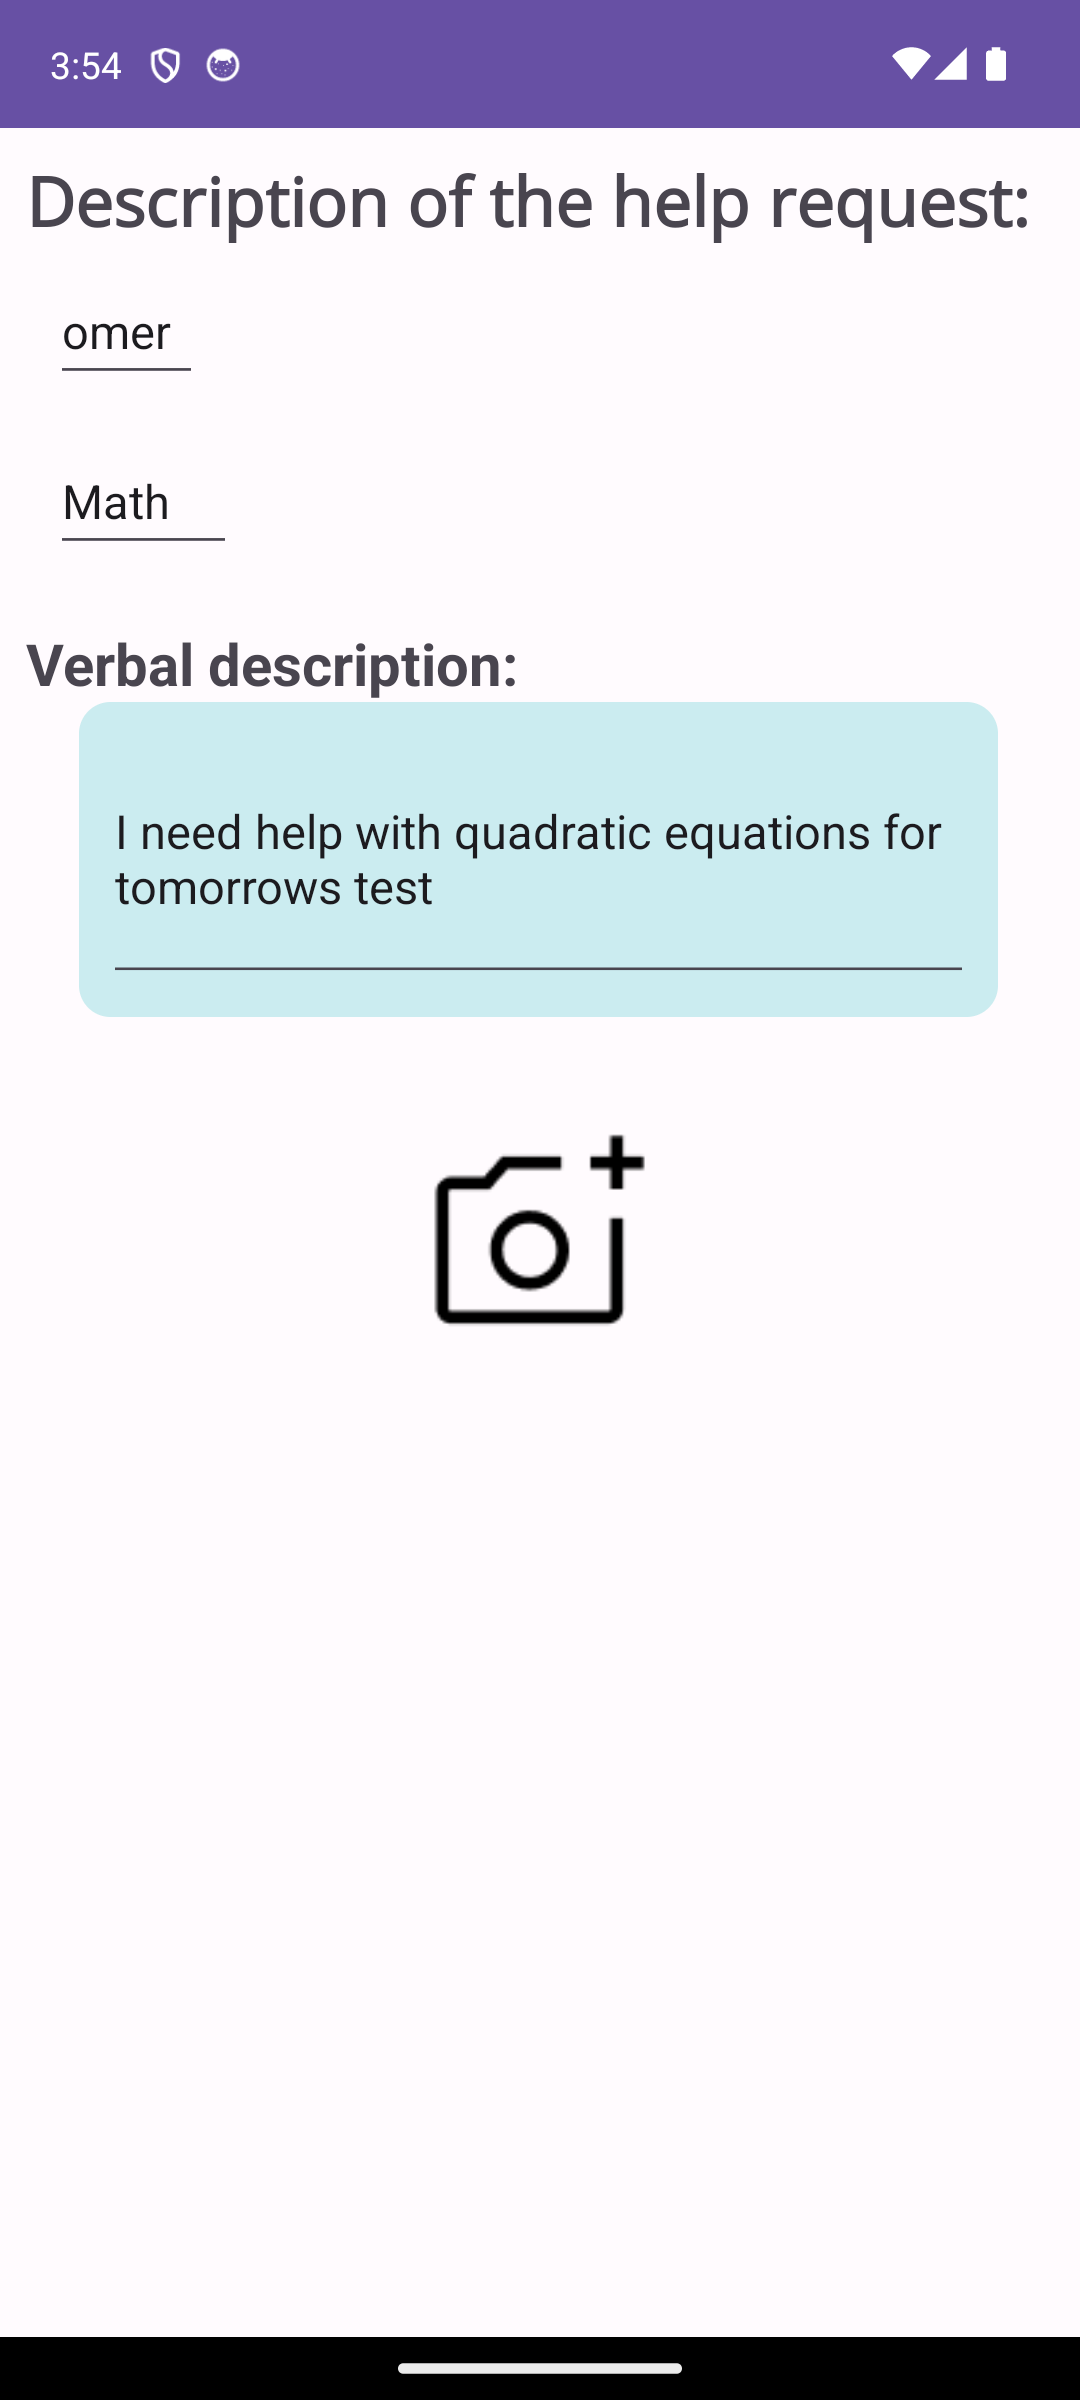
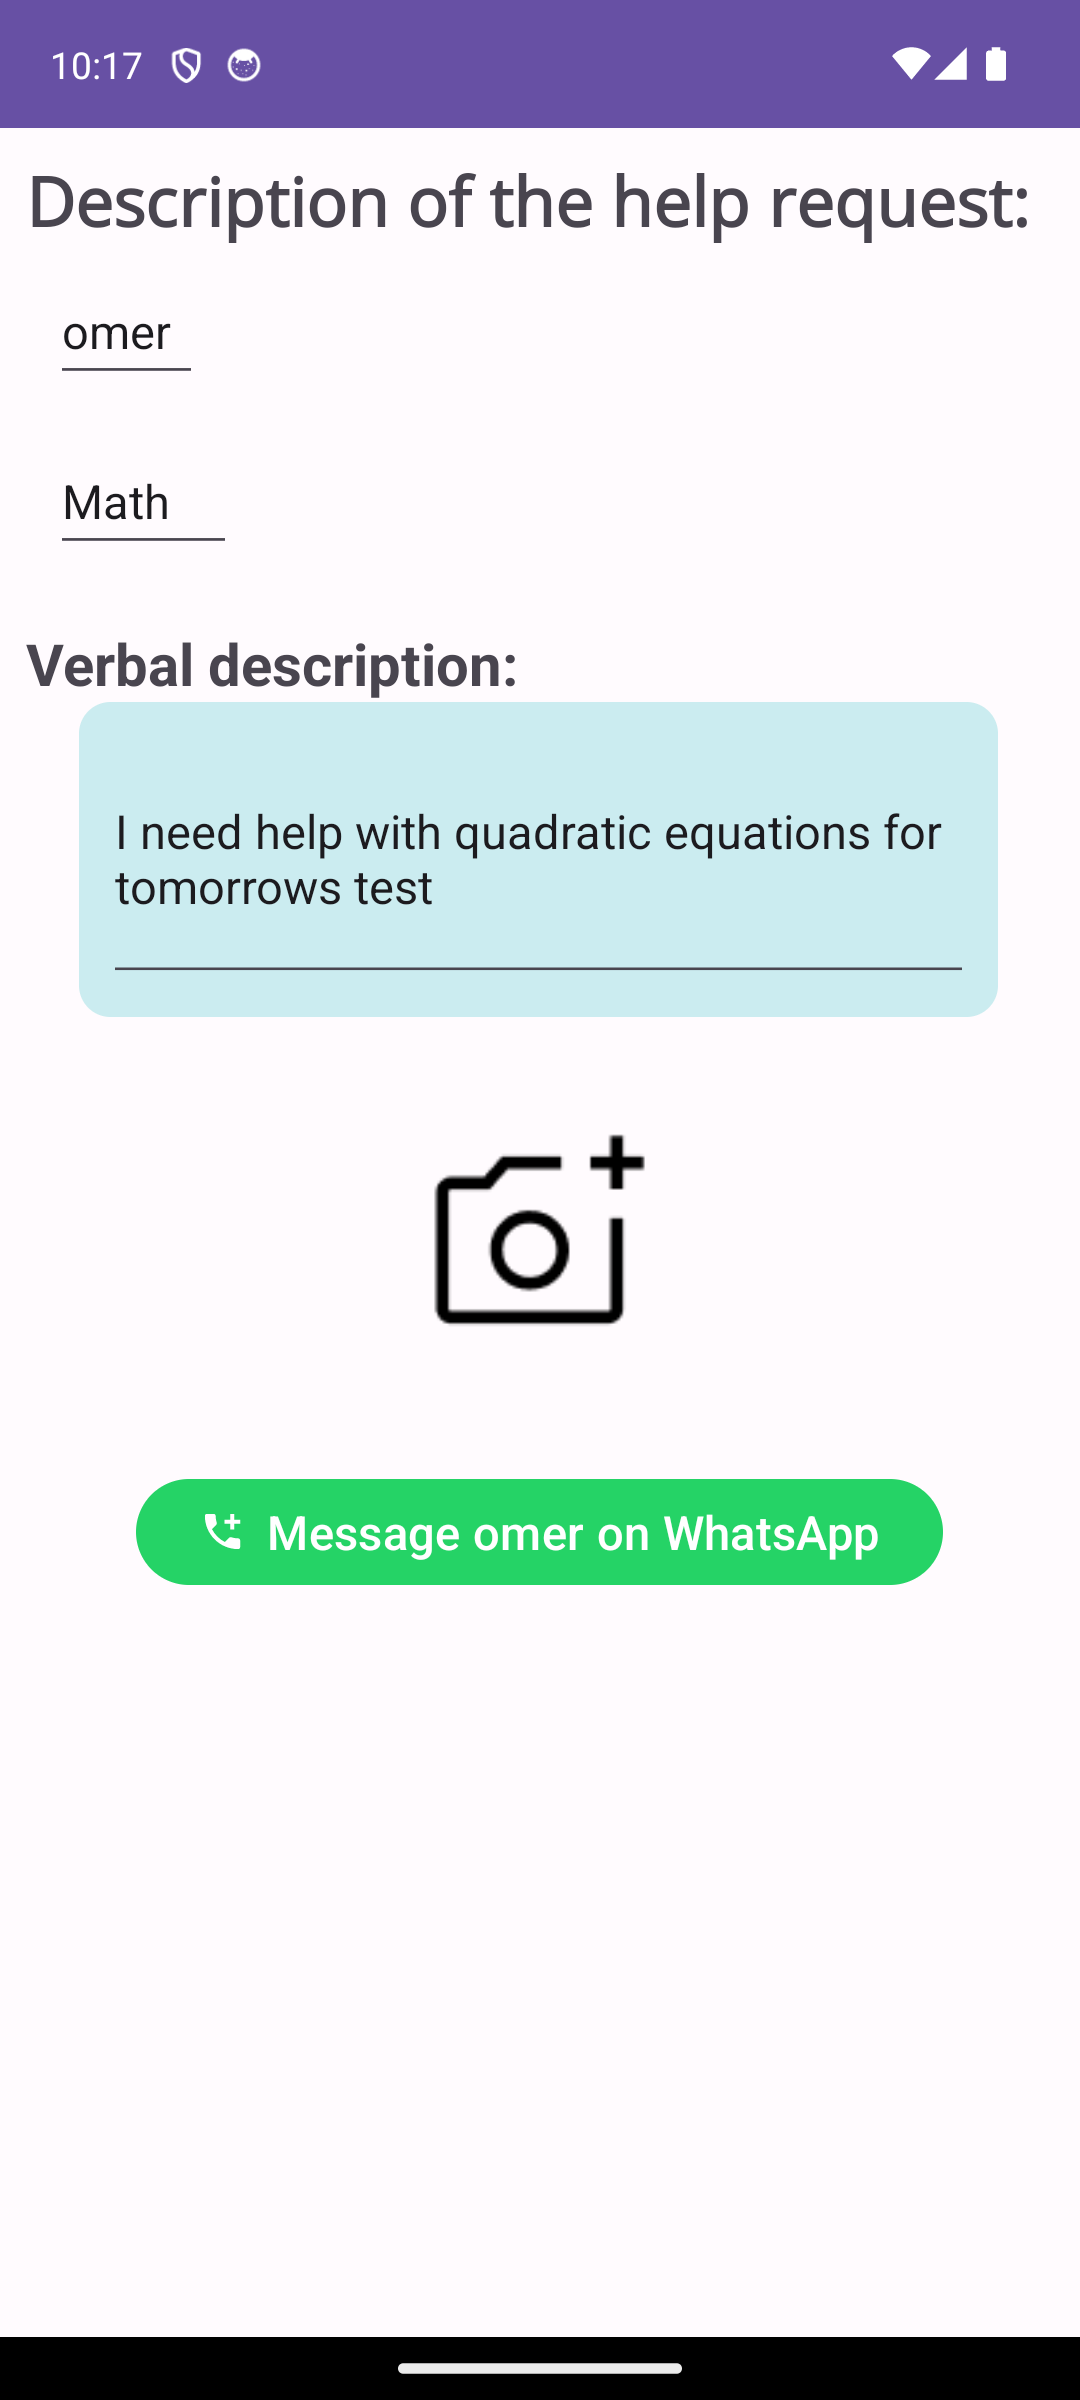
Add a WhatsApp button to the request details screen
The helper can open a WhatsApp chat with the student who asked for help,
using the phone number from their profile and a ready-made first message.

Changed region(s): [[0.1222, 0.5938, 0.8861, 0.6875], [0.0611, 0.0, 0.2444, 0.0312]]

diff --git a/app/src/main/java/com/example/studentsmatch/HelpDescriptionActivity.java b/app/src/main/java/com/example/studentsmatch/HelpDescriptionActivity.java
@@ -4,17 +4,23 @@ import androidx.annotation.NonNull;
 import androidx.appcompat.app.AppCompatActivity;
 import androidx.core.app.ActivityCompat;
 
+import android.content.ActivityNotFoundException;
 import android.content.Context;
 import android.content.Intent;
 import android.database.Cursor;
+import android.database.sqlite.SQLiteDatabase;
 import android.graphics.Bitmap;
 import android.graphics.BitmapFactory;
 import android.net.Uri;
 import android.os.Bundle;
 import android.provider.MediaStore;
 import android.util.Log;
+import android.view.View;
+import android.widget.Button;
 import android.widget.EditText;
 import android.widget.ImageView;
+import android.widget.TextView;
+import android.widget.Toast;
 
 import java.io.FileNotFoundException;
 import java.io.IOException;
@@ -28,12 +34,16 @@ public class HelpDescriptionActivity extends AppCompatActivity {
     public EditText nameEt;
     public EditText subjectEt, getHelpEditText;
     public ImageView getImage1;
+    public Button whatsappBtn;
+    public TextView whatsappNote;
 
     public void init(){
         nameEt=findViewById(R.id.nameEt);
         subjectEt=findViewById(R.id.subjectEt);
         getHelpEditText=findViewById(R.id.getHelpEditText);
         getImage1=findViewById(R.id.getImage1);
+        whatsappBtn=findViewById(R.id.whatsappBtn);
+        whatsappNote=findViewById(R.id.whatsappNote);
     }
 
 //
@@ -59,6 +69,56 @@ public class HelpDescriptionActivity extends AppCompatActivity {
                 Log.d("StudentsMatch", "no access to request image: " + e);
             }
         }
+        setUpWhatsApp(request);
+    }
+
+    // Lets the helper message the student who asked for help, using the phone number from their profile.
+    private void setUpWhatsApp(Request request) {
+        String name = request.getRequestname();
+        boolean ownRequest = MainActivity.user != null && name.equals(MainActivity.user.getUserName());
+        if (ownRequest) {
+            whatsappNote.setText("This is your own request");
+            whatsappNote.setVisibility(View.VISIBLE);
+            return;
+        }
+
+        String phone = findPhone(name);
+        String international = toInternational(phone);
+        if (international == null) {
+            whatsappNote.setText("No phone number for " + name);
+            whatsappNote.setVisibility(View.VISIBLE);
+            return;
+        }
+
+        whatsappBtn.setText("Message " + name + " on WhatsApp");
+        whatsappBtn.setVisibility(View.VISIBLE);
+        whatsappBtn.setOnClickListener(v -> {
+            String message = "Hi " + name + ", I saw your request for help in "
+                    + request.getRequestsubject() + " on StudentsMatch and I can help.";
+            Uri uri = Uri.parse("https://wa.me/" + international + "?text=" + Uri.encode(message));
+            try {
+                startActivity(new Intent(Intent.ACTION_VIEW, uri));
+            } catch (ActivityNotFoundException e) {
+                Toast.makeText(this, "WhatsApp is not installed", Toast.LENGTH_SHORT).show();
+            }
+        });
+    }
+
+    private String findPhone(String userName) {
+        SQLiteDatabase db = new HelperDB(this).getReadableDatabase();
+        try (Cursor cursor = db.query(HelperDB.USER_TABLE, new String[]{HelperDB.USER_PHONE},
+                HelperDB.USER_NAME + " = ?", new String[]{userName}, null, null, null)) {
+            return cursor.moveToFirst() ? cursor.getString(0) : null;
+        }
+    }
+
+    // Israeli mobile number (0501234567) to WhatsApp format (972501234567).
+    static String toInternational(String phone) {
+        if (phone == null) return null;
+        String digits = phone.replaceAll("[^0-9]", "");
+        if (digits.startsWith("972")) return digits.length() == 12 ? digits : null;
+        if (digits.startsWith("0") && digits.length() == 10) return "972" + digits.substring(1);
+        return null;
     }
 
 }

diff --git a/README.md b/README.md
@@ -24,6 +24,7 @@ A student rates which subjects they're strong in and which they need help with. 
 - **Rate your subjects**: for each subject the student marks "good at" or "need help".
 - **Get help**: post a request with a subject, a description and an optional exercise photo picked from the gallery (Android Photo Picker).
 - **Give help**: a list (`RecyclerView`) of requests in the subjects *you* are good at. Tap one to see its details.
+- **Message on WhatsApp**: from a request, the helper can open a WhatsApp chat with the student, using the phone number from the student's profile and a ready-made first message.
 - **Edit or delete your profile**, including a new photo and an optional new password.
 - Bottom navigation with fragments, Material 3 components, custom fonts and illustrations.
 
@@ -76,10 +77,10 @@ In **2026** I brought it up to date:
 - Fixed the profile photo: changing it from the edit screen wasn't saved, and large camera photos could crash the app or appear rotated.
 - Passwords are now stored as salted PBKDF2 hashes instead of plain text, and no longer saved on the device for "remember me". Existing accounts are upgraded automatically the next time they log in.
 - Fixed a crash when sending a help request without a photo, and a bug where changing your user name lost your edits.
+- Finished the WhatsApp button I started in the original version: it now opens a chat with the student who asked for help.
 - Cleaned up: one log tag, removed dead code and leftover placeholder labels, fixed typos in error messages, renamed classes to Android naming conventions.
 
 ## Ideas for the future
 
 - Connect the microphone button on the **Get help** screen to speech-to-text (the button is there but not wired up yet).
-- A **WhatsApp** button on a request, so the helper can message the student directly. I started it in the original version but didn't finish it, and the unfinished code was removed in 2026.
 - Move the data to a server (for example Firebase) so students on different phones can see each other's requests. Today everything is stored locally on one device.
